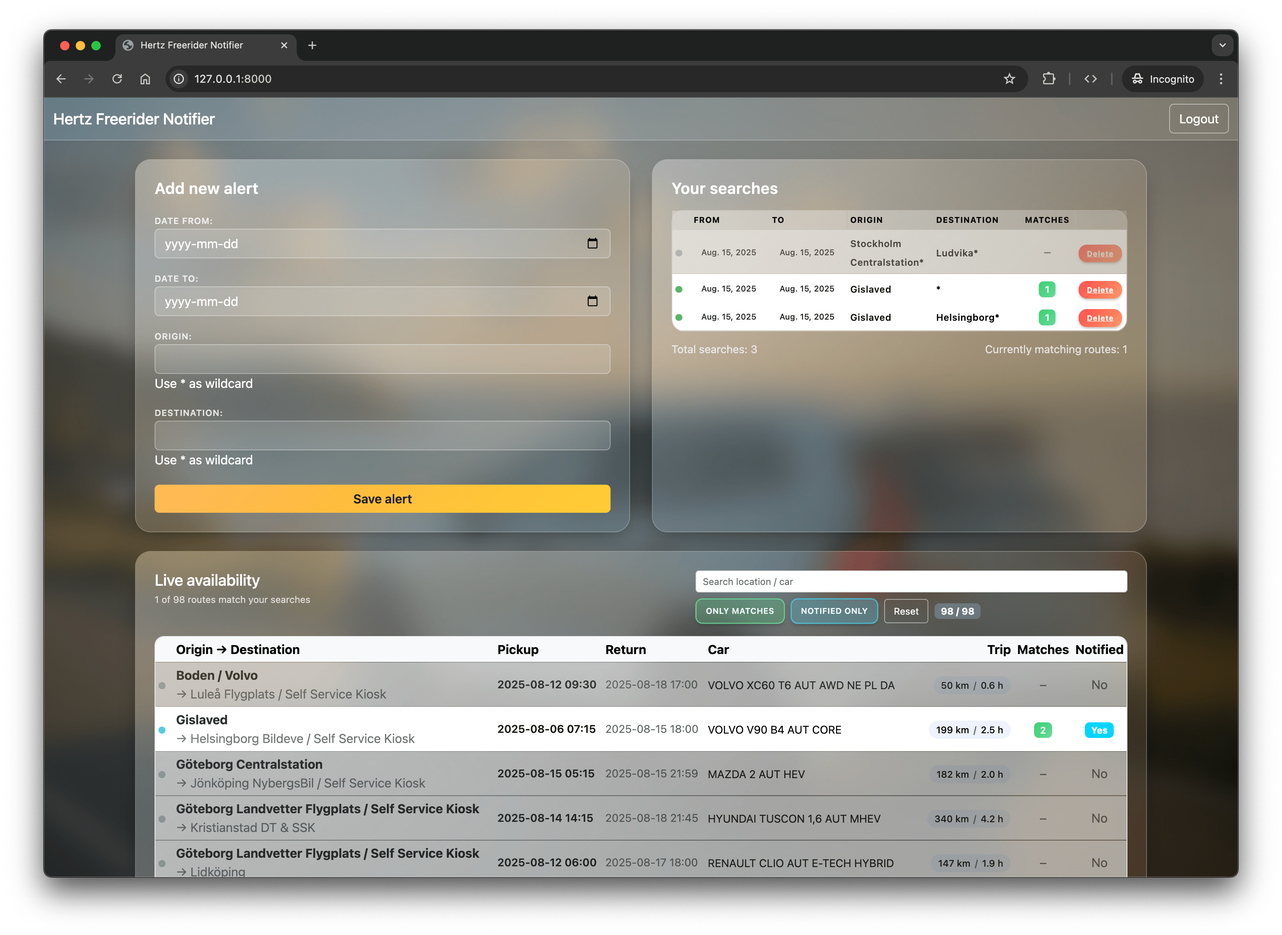
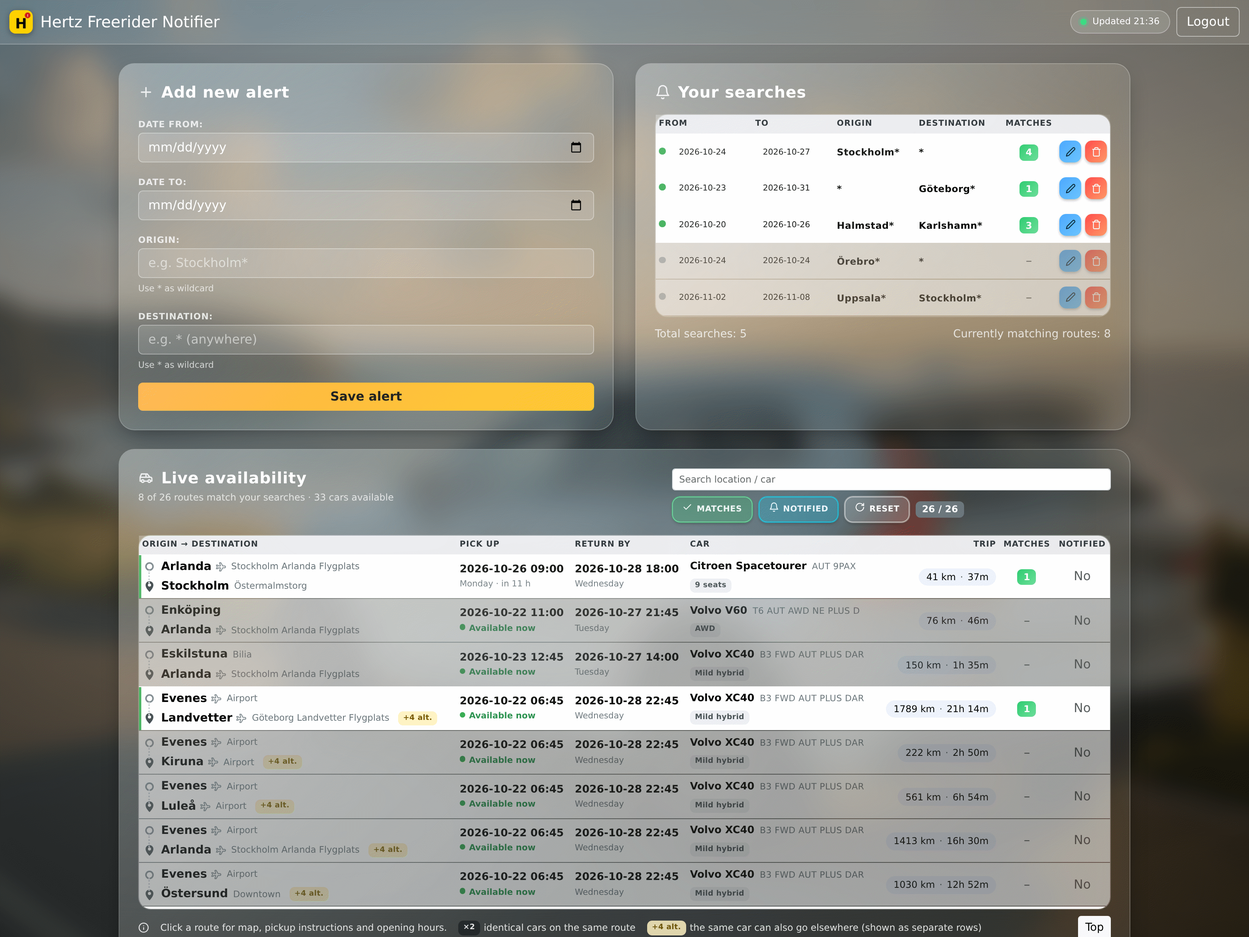
Update README and screenshots for the new dashboard
Shorter README describing the current features, with new desktop and
mobile screenshots of the list and the route details.

diff --git a/README.md b/README.md
@@ -1,141 +1,59 @@
 # Hertz Freerider Notifier
 
-A Django & Celery based solution that monitors Hertz Freerider at a configurable interval (default every 2 minutes) and sends Pushover alerts whenever a car that matches your saved searches becomes available.
+A Django & Celery app that watches [Hertz Freerider](https://www.hertzfreerider.se/) every 2 minutes and sends a Pushover alert when a car matching one of your saved searches becomes available.
 
 ## Features
 
-* **Pushover notifications** – one alert per unique ride (no spam).
-* **Dockerized** – includes PostgreSQL, Redis, Celery worker & beat.
-* **Secure authentication** – uses Django’s built‑in auth.
+* **Saved searches** with origin, destination and dates (`*` as wildcard), one notification per ride.
+* **Live availability** of all current routes: pickup and return times, car model with full fleet code, distance and matches.
+* **Route details** on a map, with the trip as three steps (pick up, drive, return) and every destination the same car can go to.
+* **Notification history** and a mobile-friendly layout.
+* **Dockerized:** PostgreSQL, Redis, Celery worker & beat.
 
 ## Screenshots
 
 ### Desktop
 <p align="center">
-   <a href="docs/img/screenshot_login.png" target="_blank" title="Desktop – Login"><img src="docs/img/screenshot_login.png" alt="Desktop login screen" width="300" style="max-width:100%; border:1px solid #ccc; border-radius:12px; margin:6px;"></a>
-   <a href="docs/img/screenshot_dashboard_01.png" target="_blank" title="Desktop – Searches & live availability"><img src="docs/img/screenshot_dashboard_01.png" alt="Desktop dashboard showing searches and live availability" width="300" style="max-width:100%; border:1px solid #ccc; border-radius:12px; margin:6px;"></a>
-   <a href="docs/img/screenshot_dashboard_02.png" target="_blank" title="Desktop – Notification history"><img src="docs/img/screenshot_dashboard_02.png" alt="Desktop dashboard notification history view" width="300" style="max-width:100%; border:1px solid #ccc; border-radius:12px; margin:6px;"></a>
+   <a href="docs/img/screenshot_login.png" target="_blank" title="Login"><img src="docs/img/screenshot_login.png" alt="Login screen" width="300" style="max-width:100%; border:1px solid #ccc; border-radius:12px; margin:6px;"></a>
+   <a href="docs/img/screenshot_dashboard_01.png" target="_blank" title="Searches & live availability"><img src="docs/img/screenshot_dashboard_01.png" alt="Dashboard with saved searches and live availability" width="300" style="max-width:100%; border:1px solid #ccc; border-radius:12px; margin:6px;"></a>
+   <a href="docs/img/screenshot_details.png" target="_blank" title="Route details"><img src="docs/img/screenshot_details.png" alt="Route details with map and trip steps" width="300" style="max-width:100%; border:1px solid #ccc; border-radius:12px; margin:6px;"></a>
+   <a href="docs/img/screenshot_dashboard_02.png" target="_blank" title="Notification history"><img src="docs/img/screenshot_dashboard_02.png" alt="Notification history" width="300" style="max-width:100%; border:1px solid #ccc; border-radius:12px; margin:6px;"></a>
 </p>
 <p align="center" style="margin-top:-6px;">
-   <sub><strong>Left → Right:</strong> Login · Searches + Live availability · Notification history</sub>
+   <sub><strong>Left → Right:</strong> Login · Searches + Live availability · Route details · Notification history</sub>
 </p>
 
 ### Mobile
 <p align="center">
-   <a href="docs/img/screenshot_mobile_01.png" target="_blank" title="Mobile – Searches list"><img src="docs/img/screenshot_mobile_01.png" alt="Mobile view – searches list" height="320" style="max-height:320px; border:1px solid #ccc; border-radius:28px; margin:6px; aspect-ratio:9/19; object-fit:cover;"></a>
-   <a href="docs/img/screenshot_mobile_02.png" target="_blank" title="Mobile – Live availability"><img src="docs/img/screenshot_mobile_02.png" alt="Mobile view – live availability list" height="320" style="max-height:320px; border:1px solid #ccc; border-radius:28px; margin:6px; aspect-ratio:9/19; object-fit:cover;"></a>
+   <a href="docs/img/screenshot_mobile_01.png" target="_blank" title="Live availability"><img src="docs/img/screenshot_mobile_01.png" alt="Mobile – live availability" height="320" style="max-height:320px; border:1px solid #ccc; border-radius:28px; margin:6px; aspect-ratio:9/19; object-fit:cover;"></a>
+   <a href="docs/img/screenshot_mobile_details.png" target="_blank" title="Route details"><img src="docs/img/screenshot_mobile_details.png" alt="Mobile – route details" height="320" style="max-height:320px; border:1px solid #ccc; border-radius:28px; margin:6px; aspect-ratio:9/19; object-fit:cover;"></a>
+   <a href="docs/img/screenshot_mobile_02.png" target="_blank" title="Searches"><img src="docs/img/screenshot_mobile_02.png" alt="Mobile – searches" height="320" style="max-height:320px; border:1px solid #ccc; border-radius:28px; margin:6px; aspect-ratio:9/19; object-fit:cover;"></a>
 </p>
 <p align="center" style="margin-top:-6px;">
-   <sub><strong>Mobile:</strong> Live availability feed · Searches management</sub>
+   <sub><strong>Mobile:</strong> Live availability · Route details · Searches</sub>
 </p>
 
-<p align="center"><em>Click any image to open its full-size version.</em></p>
+## Getting started
 
-## Prerequisites
-
-- Docker and Docker Compose
-- A Pushover account (for notifications)
-
-## Setup Instructions
-
-### 1. Clone and setup environment
+Requires Docker with Docker Compose and a Pushover account.
 
 ```bash
 git clone https://github.com/cr3ation/hertz-freerider-notifier.git
 cd hertz-freerider-notifier
-```
-
-### 2. Configure environment variables
-
-Copy the sample environment file and edit it with your settings:
-
-```bash
-cp .env.sample .env
-```
-
-Edit `.env` and update these important variables:
-- `PUSHOVER_USER` - Your Pushover user key
-- `PUSHOVER_TOKEN` - Your Pushover app token  
-- `SECRET_KEY` - A secure random string for Django
-- `DB_PASS` - A secure password for the database
- - (Optional) `APP_PORT` / `APP_DEBUGPY_PORT` if the defaults 8000 / 5678 clash on your system
- - (Optional) `CSRF_TRUSTED_ORIGINS` (comma-separated, full scheme+host) e.g. `https://mydomain.com,https://app.mydomain.com`
-
-### 3. Start the application
-
-```bash
+cp .env.sample .env      # set SECRET_KEY, DB_PASS, PUSHOVER_USER, PUSHOVER_TOKEN and the admin login
 docker compose up --build -d
 ```
 
-This will automatically:
-* Build images & install dependencies
-* Start services:
-   * app (Django, port `$APP_PORT` – defaults to 8000)
-   * db (PostgreSQL)
-   * redis (broker / cache)
-   * worker (Celery worker)
-   * beat (Celery beat scheduler – runs every `HERTZ_CHECK_INTERVAL` seconds, default 120s)
-* Run migrations
-* Create a default superuser (if missing)
-* Collect static files (served via WhiteNoise)
+Open <http://localhost:8000> and log in with `DJANGO_SUPERUSER_USERNAME` / `DJANGO_SUPERUSER_PASSWORD` from `.env`. If they are unset, the defaults are `admin` / `admin123`.
 
-### 4. Access the application
+## How it works
 
-Open <http://localhost:8000> — you will be redirected to the login page (`/accounts/login/`) if not authenticated. Log in with:
-- **Username**: `admin`
-- **Password**: `admin123`
+Celery beat triggers a check every `HERTZ_CHECK_INTERVAL` seconds. The worker fetches all rides from the Hertz Freerider API and compares them with your searches. For each new match it sends a Pushover notification and records the ride, so it is never notified twice. A search matches when its origin and destination match the station names (case-insensitive, `*` as wildcard) and its dates overlap the car's pickup–return window.
 
-You can now start adding search rules!
-
-## Troubleshooting
-
-### Database Connection Issues
-
-If you see database authentication errors, you may have old database data. Clean up and restart:
+To trigger a check right away:
 
 ```bash
-docker compose down
-docker volume rm hertz_freerider_notifier_postgres_data
-docker compose up --build -d
-```
-
-The application will automatically recreate the database and admin user.
-
-### Check Service Status
-
-View running containers:
-```bash
-docker ps
-```
-
-View logs for specific services:
-```bash
-docker compose logs app
-docker compose logs worker
-docker compose logs beat
-docker compose logs db
-```
-
-### Reset Admin Password
-
-If you need to change the admin password:
-
-```bash
-docker compose exec app python manage.py shell -c "
-from django.contrib.auth.models import User
-user = User.objects.get(username='admin')
-user.set_password('new_password')
-user.save()
-print('Password updated')
-"
-```
-
-### Create Additional Users
-
-To create additional admin users:
-
-```bash
-docker compose exec app python manage.py createsuperuser
+docker compose exec app python manage.py shell -c "from scheduler.tasks import check_hertz; check_hertz.delay()"
 ```
 
 ## Environment variables
@@ -144,111 +62,27 @@ docker compose exec app python manage.py createsuperuser
 | ---- | ----------- | ------- |
 | `SECRET_KEY` | Django secret key | `changeme` |
 | `DEBUG` | Debug mode (0 or 1) | `0` |
-| `HERTZ_CHECK_INTERVAL` | Interval in seconds between Hertz API checks (Celery beat) | `120` |
-| `APP_PORT` | Host port exposed for Django web app | `8000` |
-| `APP_DEBUGPY_PORT` | Host port for Django debugpy (when `DEBUG=1`) | `5678` |
-| `DB_NAME` | Database name | `db` |
-| `DB_USER` | Database username | `devuser` |
-| `DB_PASS` | Database password | `changeme` |
-| `DB_HOST` | Database host | `db` |
-| `DB_PORT` | Database port | `5432` |
+| `HERTZ_CHECK_INTERVAL` | Seconds between Hertz checks | `120` |
+| `APP_PORT` | Host port for the web app | `8000` |
+| `APP_DEBUGPY_PORT` | Host port for debugpy (when `DEBUG=1`) | `5678` |
+| `DB_NAME` / `DB_USER` / `DB_PASS` | Database name, user and password | `db` / `devuser` / `changeme` |
+| `DB_HOST` / `DB_PORT` | Database host and port | `db` / `5432` |
 | `ALLOWED_HOSTS` | Allowed hosts (comma-separated) | `127.0.0.1,localhost` |
-| `CSRF_TRUSTED_ORIGINS` | Comma-separated list of trusted origins (include scheme) for CSRF protection | - |
-| `PUSHOVER_USER` | Your Pushover user key | - |
-| `PUSHOVER_TOKEN` | Your Pushover app token | - |
-| `DJANGO_SUPERUSER_USERNAME` | Auto-created admin username (if absent) | `admin` |
-| `DJANGO_SUPERUSER_PASSWORD` | Auto-created admin password (if absent) | `admin123` |
+| `CSRF_TRUSTED_ORIGINS` | Trusted origins incl. scheme, e.g. `https://example.com` | - |
+| `PUSHOVER_USER` / `PUSHOVER_TOKEN` | Pushover user key and app token | - |
+| `DJANGO_SUPERUSER_USERNAME` / `DJANGO_SUPERUSER_PASSWORD` | Admin created on first start | `admin` / `admin123` |
 | `CELERY_BROKER_URL` | Redis URL for Celery | `redis://redis:6379/0` |
 
-See `.env.sample` for the complete configuration template.
+## Production notes
 
-## How It Works
+* Use `DEBUG=0`. The app then runs on Gunicorn, and static files get hashed names, so browsers never use stale CSS/JS after a deploy. With `DEBUG=1`, do a hard reload after deploying.
+* Change `SECRET_KEY`, `DB_PASS` and the admin password, and restrict `ALLOWED_HOSTS`.
+* Don't expose the debug ports 5678/5679 from `docker-compose.yml` to the internet.
 
-1. **Celery Beat** runs every `HERTZ_CHECK_INTERVAL` seconds (default 120s) and triggers the monitoring task
-2. **Celery Worker** executes the task that:
-   - Fetches available rides from Hertz Freerider API
-   - Compares them against your saved search criteria
-   - Sends Pushover notifications for new matches
-   - Records notified rides to prevent duplicate alerts
-3. **Django Web App** provides the user interface for managing search rules
+## Development & troubleshooting
 
-### Manual Testing (trigger task immediately)
-
-For testing purposes, you can manually trigger the monitoring task instead of waiting for the 2-minute schedule:
-
-```bash
-# Trigger the task immediately
-docker compose exec app python manage.py shell -c "from scheduler.tasks import check_hertz; check_hertz.delay()"
-```
-
-This is useful when:
-- Testing your search configurations
-- Debugging notifications
-- Verifying the system is working correctly
-
-You can monitor the task execution by watching the worker logs:
-
-```bash
-docker compose logs -f worker
-```
-
-## Development
-
-To make changes to the code:
-
-1. Edit files locally
-2. Restart the relevant services:
-   ```bash
-   docker compose restart app worker beat
-   ```
-
-To view real-time logs:
-```bash
-docker compose logs -f worker beat
-```
-
-### Celery Worker Debugging
-
-The worker entrypoint (`entrypoint-worker.sh`) includes built-in debug support via `debugpy`.
-
-Enable it by starting the stack with `DEBUG=1` in your `.env` (or override at compose runtime). When `DEBUG=1`:
-* The Django app runs with `debugpy` on container port 5678 (host 5678).
-* The Celery worker runs with `debugpy` on container port 5678 but is mapped to a different host port (see `docker-compose.yml`, e.g. `5679:5678`).
-
-Attach from VS Code:
-1. Open the Run and Debug panel.
-2. Use "Python: Remote Attach" (host: `localhost`, port: `5678` for app or `5679` for worker).
-3. Set breakpoints in task code (e.g. `scheduler/tasks.py`).
-
-Optional: To make the worker wait for the debugger before executing code, edit `entrypoint-worker.sh` and add `--wait-for-client` after the `--listen 0.0.0.0:5678` argument.
-
-When you’re done debugging, set `DEBUG=0` and restart the affected services to return to normal (Gunicorn + plain Celery worker) mode.
-
-## Authentication & Redirects
-
-After a successful login you are redirected to the dashboard (`/`). Visiting the login page while already authenticated will also redirect you to the dashboard (configured via `redirect_authenticated_user=True` and `LOGIN_REDIRECT_URL`).
-
-## Theming / UI Adjustments
-
-All glass / background styling lives in `scheduler/static/scheduler/css/app.css`.
-
-Useful tweaks:
-* Background brightness: adjust `--bg-brightness` in the `:root` section.
-* Change background image by replacing `background_03.png` under `scheduler/static/img/` (keep filename) or updating the `.bg-image` rule.
-* Filter button styles: selectors `#toggleShowMatches` & `#toggleShowNotified`.
-
-## Security Notes
-
-Before exposing publicly:
-* Change `SECRET_KEY` and admin password.
-* Set `DEBUG=0`.
-* Restrict `ALLOWED_HOSTS`.
-* Consider enabling HTTPS (reverse proxy / load balancer) and stronger password policies.
-
-## Roadmap Ideas
-
-* Auto-refresh live availability (AJAX / HTMX / SSE)
-* Edit saved searches in place
-* Optional dark / light theme toggle
-* Rate limiting & monitoring dashboard
-
+* The source tree is mounted into the containers. After code changes, run `docker compose restart app worker beat`.
+* Logs: `docker compose logs -f app worker beat`.
+* Debugging: with `DEBUG=1`, attach VS Code ("Python: Remote Attach") to `localhost:5678` (app) or `localhost:5679` (worker).
+* Database login errors after changing `DB_PASS`: `docker compose down -v && docker compose up --build -d`. **This deletes all data.**
+* Change a password: `docker compose exec app python manage.py changepassword admin`.
